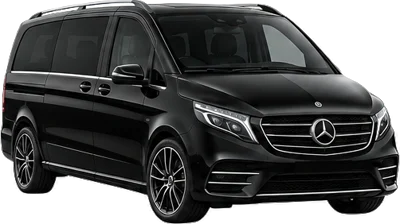
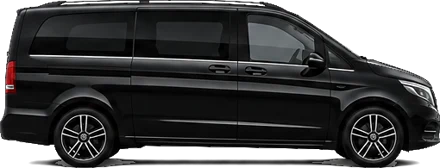
feat: side profile cars in class picker

diff --git a/src/premium.css b/src/premium.css
@@ -227,7 +227,7 @@
 .rent-category-art {
   display: flex;
   align-items: flex-end;
-  height: 82px;
+  height: 66px;
 }
 .rent-category-art img {
   display: block;
@@ -468,7 +468,7 @@
   }
   .rent-category-list::-webkit-scrollbar { display: none; }
   .rent-category-list button { flex: 0 0 135px; }
-  .rent-category-art { height: 70px; }
+  .rent-category-art { height: 58px; }
   .rent-category-heading span { display: inline; font-size: 10px; letter-spacing: 0; text-transform: none; }
   .rent-fleet {
     padding-top: 75px;
